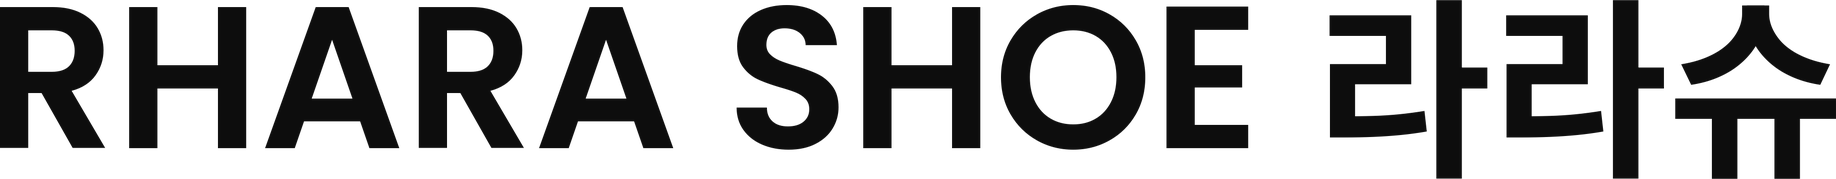
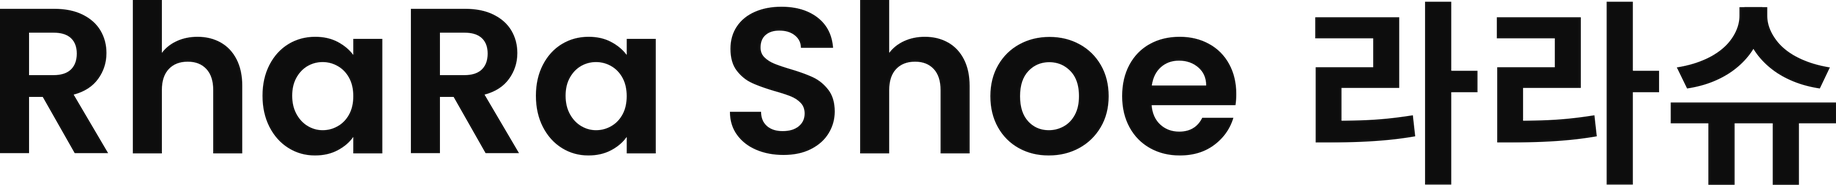
브랜드 표기 RhaRa Shoe 통일, 회사 주소 변경(박람회 인쇄물)
Claude-Session: https://claude.ai/code/session_01WbwBaiEPCZ7zKuMjGg7vqH

diff --git a/launch/rs/design/brand/make_logo_svg.py b/launch/rs/design/brand/make_logo_svg.py
@@ -1,4 +1,4 @@
-"""RS 로고(PNG 트레이스) + RharaShoe 라라슈(글자 윤곽선) 벡터 SVG → design/brand/rs-logo-rharashoe-{ink,lime,white}.svg
+"""RS 로고(PNG 트레이스) + RhaRa Shoe 라라슈(글자 윤곽선) 벡터 SVG → design/brand/rs-logo-rharashoe-{ink,lime,white}.svg
 실행: launch/rs 에서 python3 design/brand/make_logo_svg.py (pip: potracer, brotli)"""
 import numpy as np, potrace
 from PIL import Image, ImageFilter
@@ -29,7 +29,7 @@ def text_d(fontpath, text, size, x0, base):
     return out, x-x0
 EN='design/fair-print/assets/poppins-600.woff2'; KO='design/fair-print/fonts/NotoSansKR-700.ttf'
 sz=40
-en_d,wen=text_d(EN,'RharaShoe',sz,0,0)
+en_d,wen=text_d(EN,'RhaRa Shoe',sz,0,0)
 gap=sz*0.28
 ko_d,wko=text_d(KO,'라라슈',sz*0.95,wen+gap,0)
 TW=wen+gap+wko
@@ -39,7 +39,7 @@ gapY=LH*0.16; ty=LH+gapY+capH
 H=ty+sz*0.25*k
 def svg(color):
     return f'''<svg xmlns="http://www.w3.org/2000/svg" viewBox="0 0 {LW:.2f} {H:.2f}" width="{LW*4:.0f}" height="{H*4:.0f}">
-<title>RS RharaShoe 라라슈</title>
+<title>RS RhaRa Shoe 라라슈</title>
 <g fill="{color}"><path fill-rule="evenodd" d="{logo_d}"/>
 <g transform="translate(0,{ty:.2f}) scale({k:.5f})"><path d="{en_d}"/><path d="{ko_d}"/></g></g></svg>
 '''

diff --git a/launch/rs/design/fair-print/build.py b/launch/rs/design/fair-print/build.py
@@ -12,7 +12,7 @@ INK, CHAR, LIME, OLIVE, CREAM, MUTE, WHITE = '#0D0D0D', '#232323', '#C6F432', '#
 CO = dict(
     name='신동규', title='대표이사', co='㈜알앤디메이커스', brand='RS · RhaRa Shoe · 라라슈',
     tel='010-6880-2516', cs='0507-1317-2516', mail='rndceo@rndmakers.kr', web='www.rndmakers.kr',
-    ig='@rharashoe', land='rharashoe.netlify.app', addr='대전광역시 유성구 국제과학7로 8')
+    ig='@rharashoe', land='rharashoe.netlify.app', addr='경기도 고양시 일산서구 중앙로 1542')
 
 CSS = f"""
 @font-face{{font-family:N;font-weight:400;src:url(fonts/NotoSansKR-400.ttf)}}
@@ -43,7 +43,7 @@ def logo(h, col='lime'):
 WM_R = (lambda im: im.height / im.width)(Image.open(os.path.join(os.path.dirname(os.path.abspath(__file__)), 'assets/rs-wordmark-lime.png')))   # 워드마크 높이/폭
 
 def lockup(h, col='lime'):
-    """RS 로고 + 패키지 워드마크(RHARA SHOE 라라슈) 세로 락업 — h = 로고 높이 (make_lockup.py 로 생성)"""
+    """RS 로고 + 패키지 워드마크(RhaRa Shoe 라라슈) 세로 락업 — h = 로고 높이 (make_lockup.py 로 생성)"""
     return f'<img src="{A}rs-lockup-{col}.png" style="height:{h * 1.25:.1f}mm">'
 
 def qr(name, s):

diff --git a/launch/rs/design/fair-print/make_lockup.py b/launch/rs/design/fair-print/make_lockup.py
@@ -1,4 +1,4 @@
-"""RS 로고 + 패키지 워드마크(RHARA SHOE 라라슈) 세로 락업 → assets/rs-lockup-{lime,ink,white}.png (+ 워드마크 단독 rs-wordmark-*.png)
+"""RS 로고 + 패키지 워드마크(RhaRa Shoe 라라슈) 세로 락업 → assets/rs-lockup-{lime,ink,white}.png (+ 워드마크 단독 rs-wordmark-*.png)
 패키지 시안(package-draft-2026-10)과 동일: 로고 아래, 로고 폭에 맞춘 한 줄 워드마크 (영문 Poppins SemiBold + 국문 Noto Sans KR Bold)"""
 import os
 from PIL import Image, ImageDraw, ImageFont
@@ -7,7 +7,7 @@ EN = ImageFont.truetype(A('poppins-600.woff2'), 400)
 KO = ImageFont.truetype(os.path.join(HERE, 'fonts/NotoSansKR-700.ttf'), 380)
 
 def wordmark(rgb):
-    en, ko, gap = 'RHARA SHOE', '라라슈', 110
+    en, ko, gap = 'RhaRa Shoe', '라라슈', 110
     we = int(EN.getlength(en)); wk = int(KO.getlength(ko))
     im = Image.new('RGBA', (we + gap + wk + 40, 640), (0, 0, 0, 0)); d = ImageDraw.Draw(im)
     d.text((20, 320), en, font=EN, fill=rgb, anchor='lm')

diff --git a/launch/rs/log.md b/launch/rs/log.md
@@ -264,3 +264,4 @@
 - 2026-10-20 X배너② re.feeel 재작업: 흰 바탕 + '나무에서 온 구강케어.' + 메인(양치컵+칫솔) + 칫솔 2종·칫솔형 치실·양치컵 3칸 + CXP 소재 한 줄. 이벤트 박스 삭제(전용 X배너로). ⚠ 양치컵 사진 저해상도 — 원본 필요.
 - 2026-10-20 KD-01 카운터 3면 폼보드 신규(12_counter_*): 앞판 980×750·1480×750 + 옆판 600×750, 2종(RS 블랙 / re.feeel 라임). 수량: 앞판 각 사이즈 RS1·RF1, 옆판 RS4·RF4. 하단 내용 최소화, 제품 사진은 스튜디오컷 교체 예정.
 - 2026-10-20 리플렛 A4 3단(06) 갱신: CATALOG 연도 삭제, 표지 실물사진, 워킹화=체크4·원장 자문·컬러(차콜·그레이·민트화이트), 인솔=쿼드그립 4가지·반굽 M/L·그레이·모카무스, 구강=DAY2NIGHT 2종·치실(어금니까지 쏙쏙)·양치컵 실사진, 욕실화=발등 낮은 와이드 3색. 60% 연구·논문카드·리필 20개입 삭제.
+- 2026-10-20 대표 확정: 브랜드 영문 표기 'RhaRa Shoe'로 통일(락업 PNG·로고 SVG 재생성 → 박람회 인쇄물 전체 반영). 회사 주소 → 경기도 고양시 일산서구 중앙로 1542 (박람회 인쇄물 CO). 행택·패키지·상품소개서·계약서 등 다른 파일은 대표 확인 후 일괄 변경.
